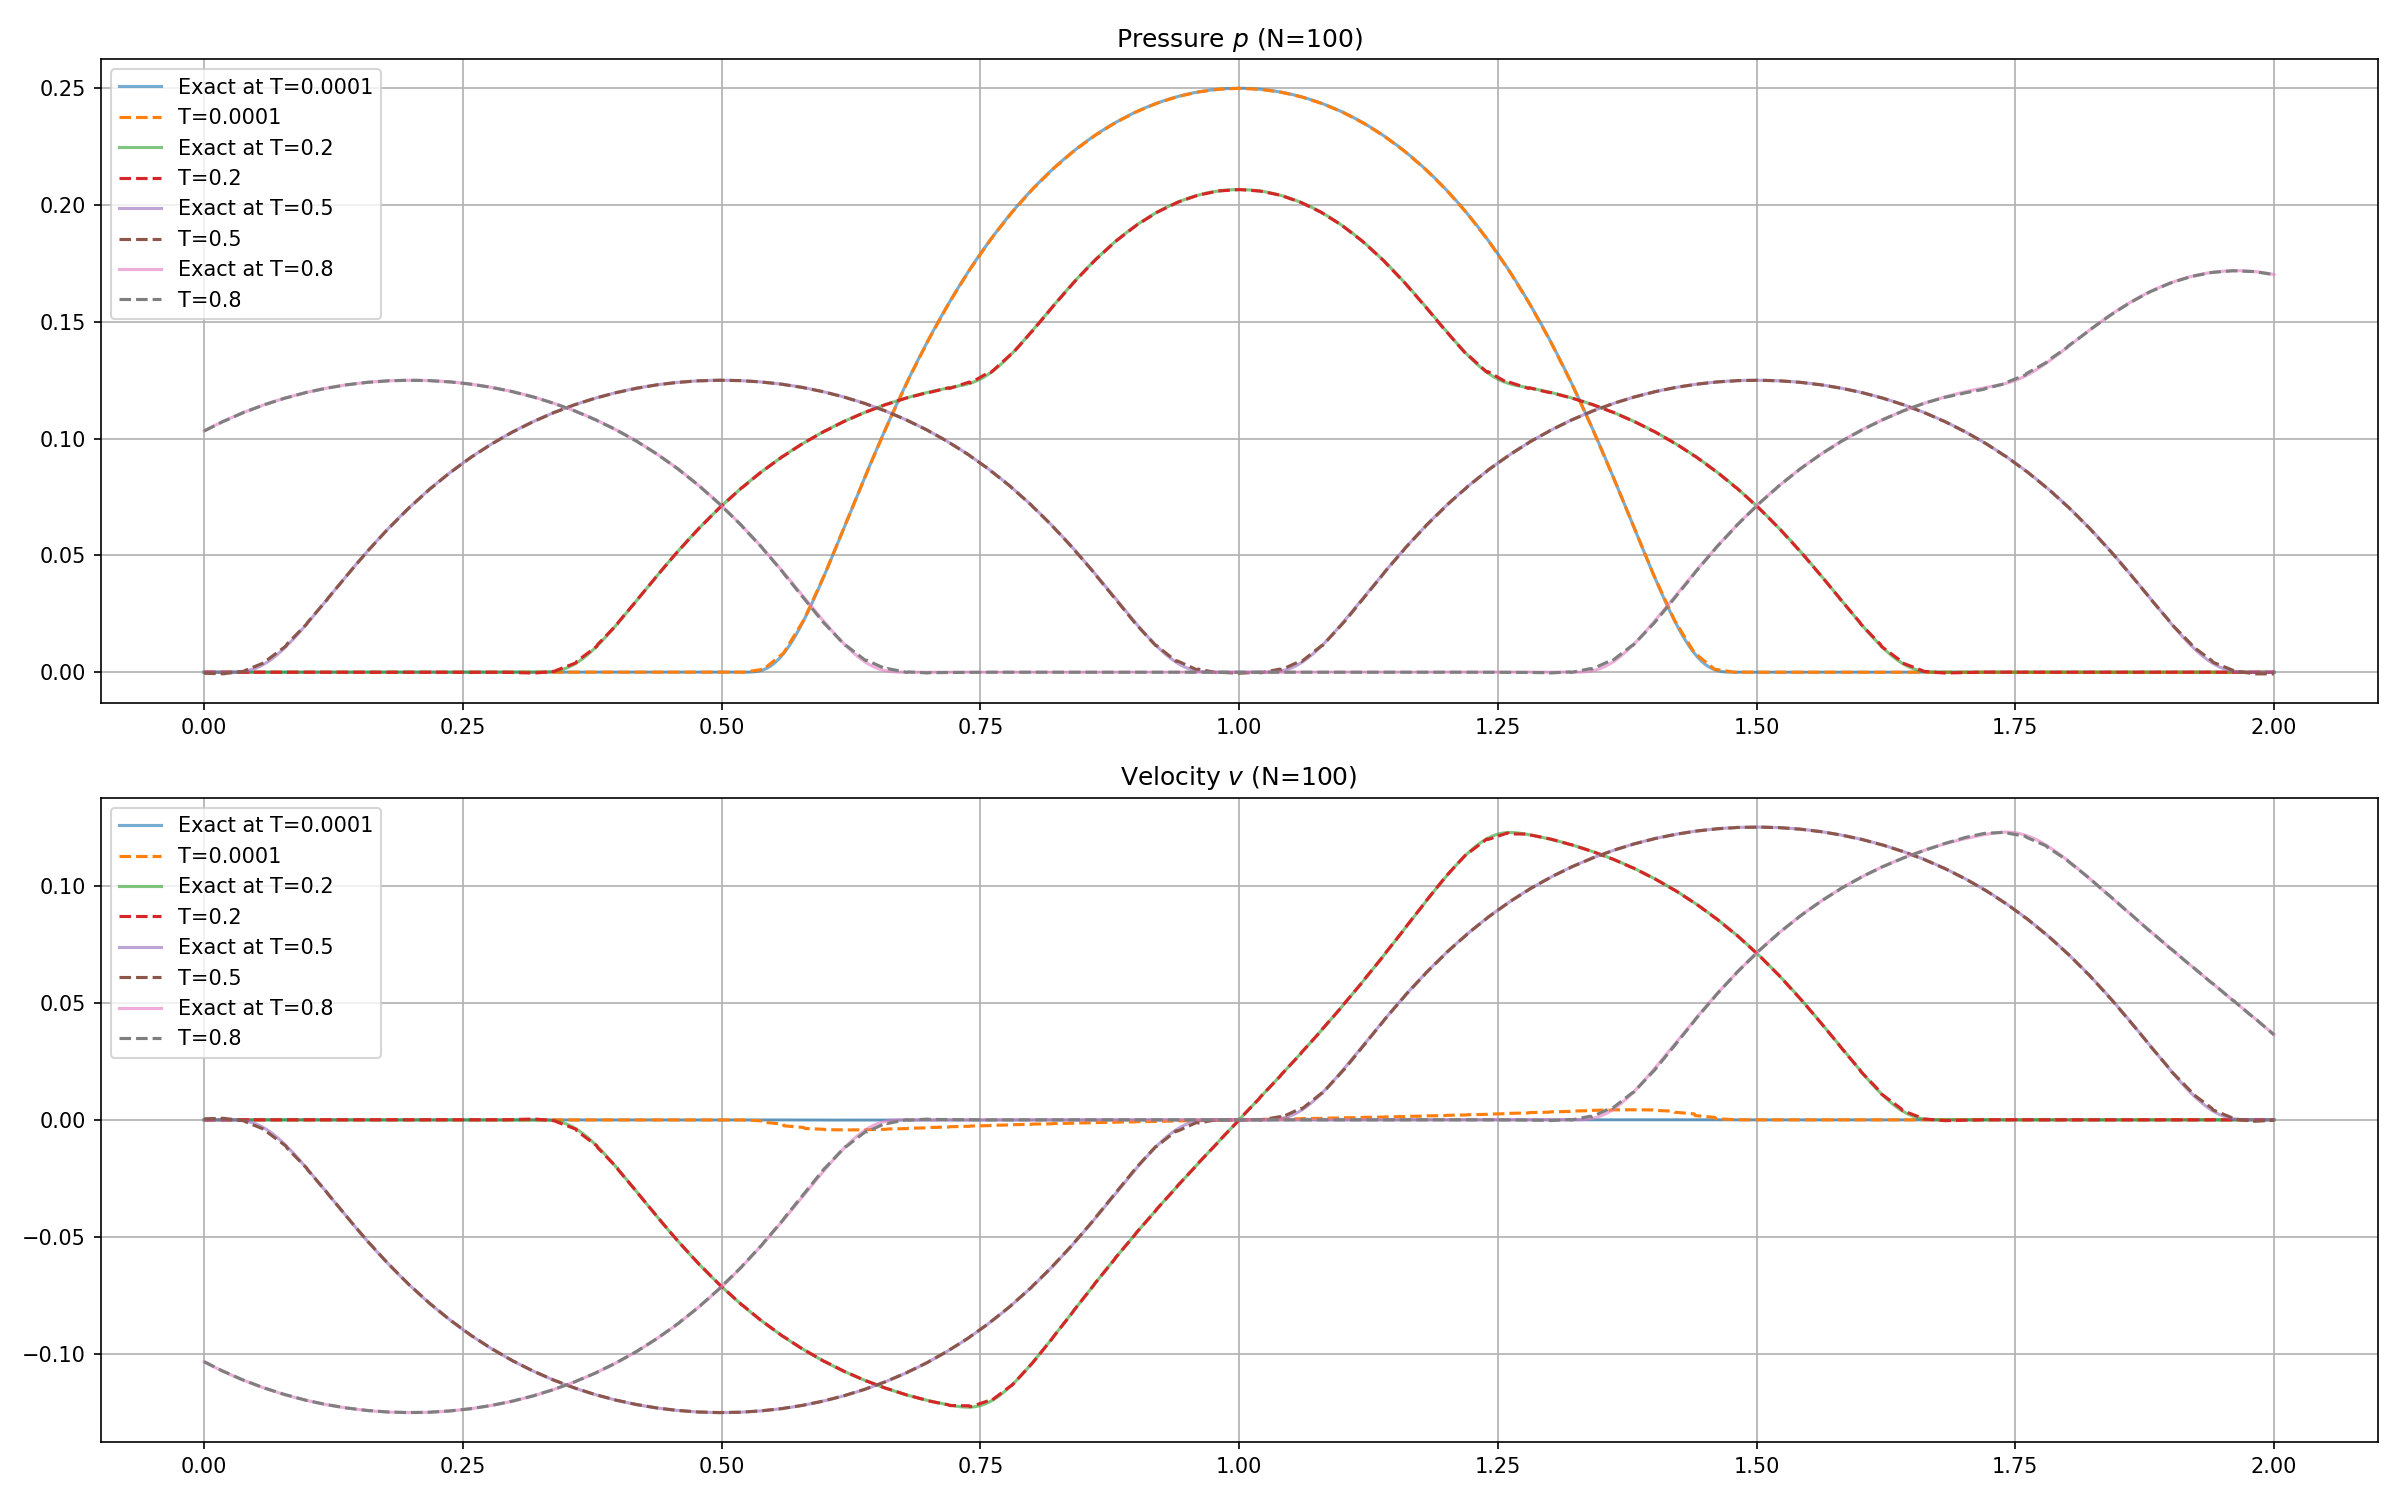
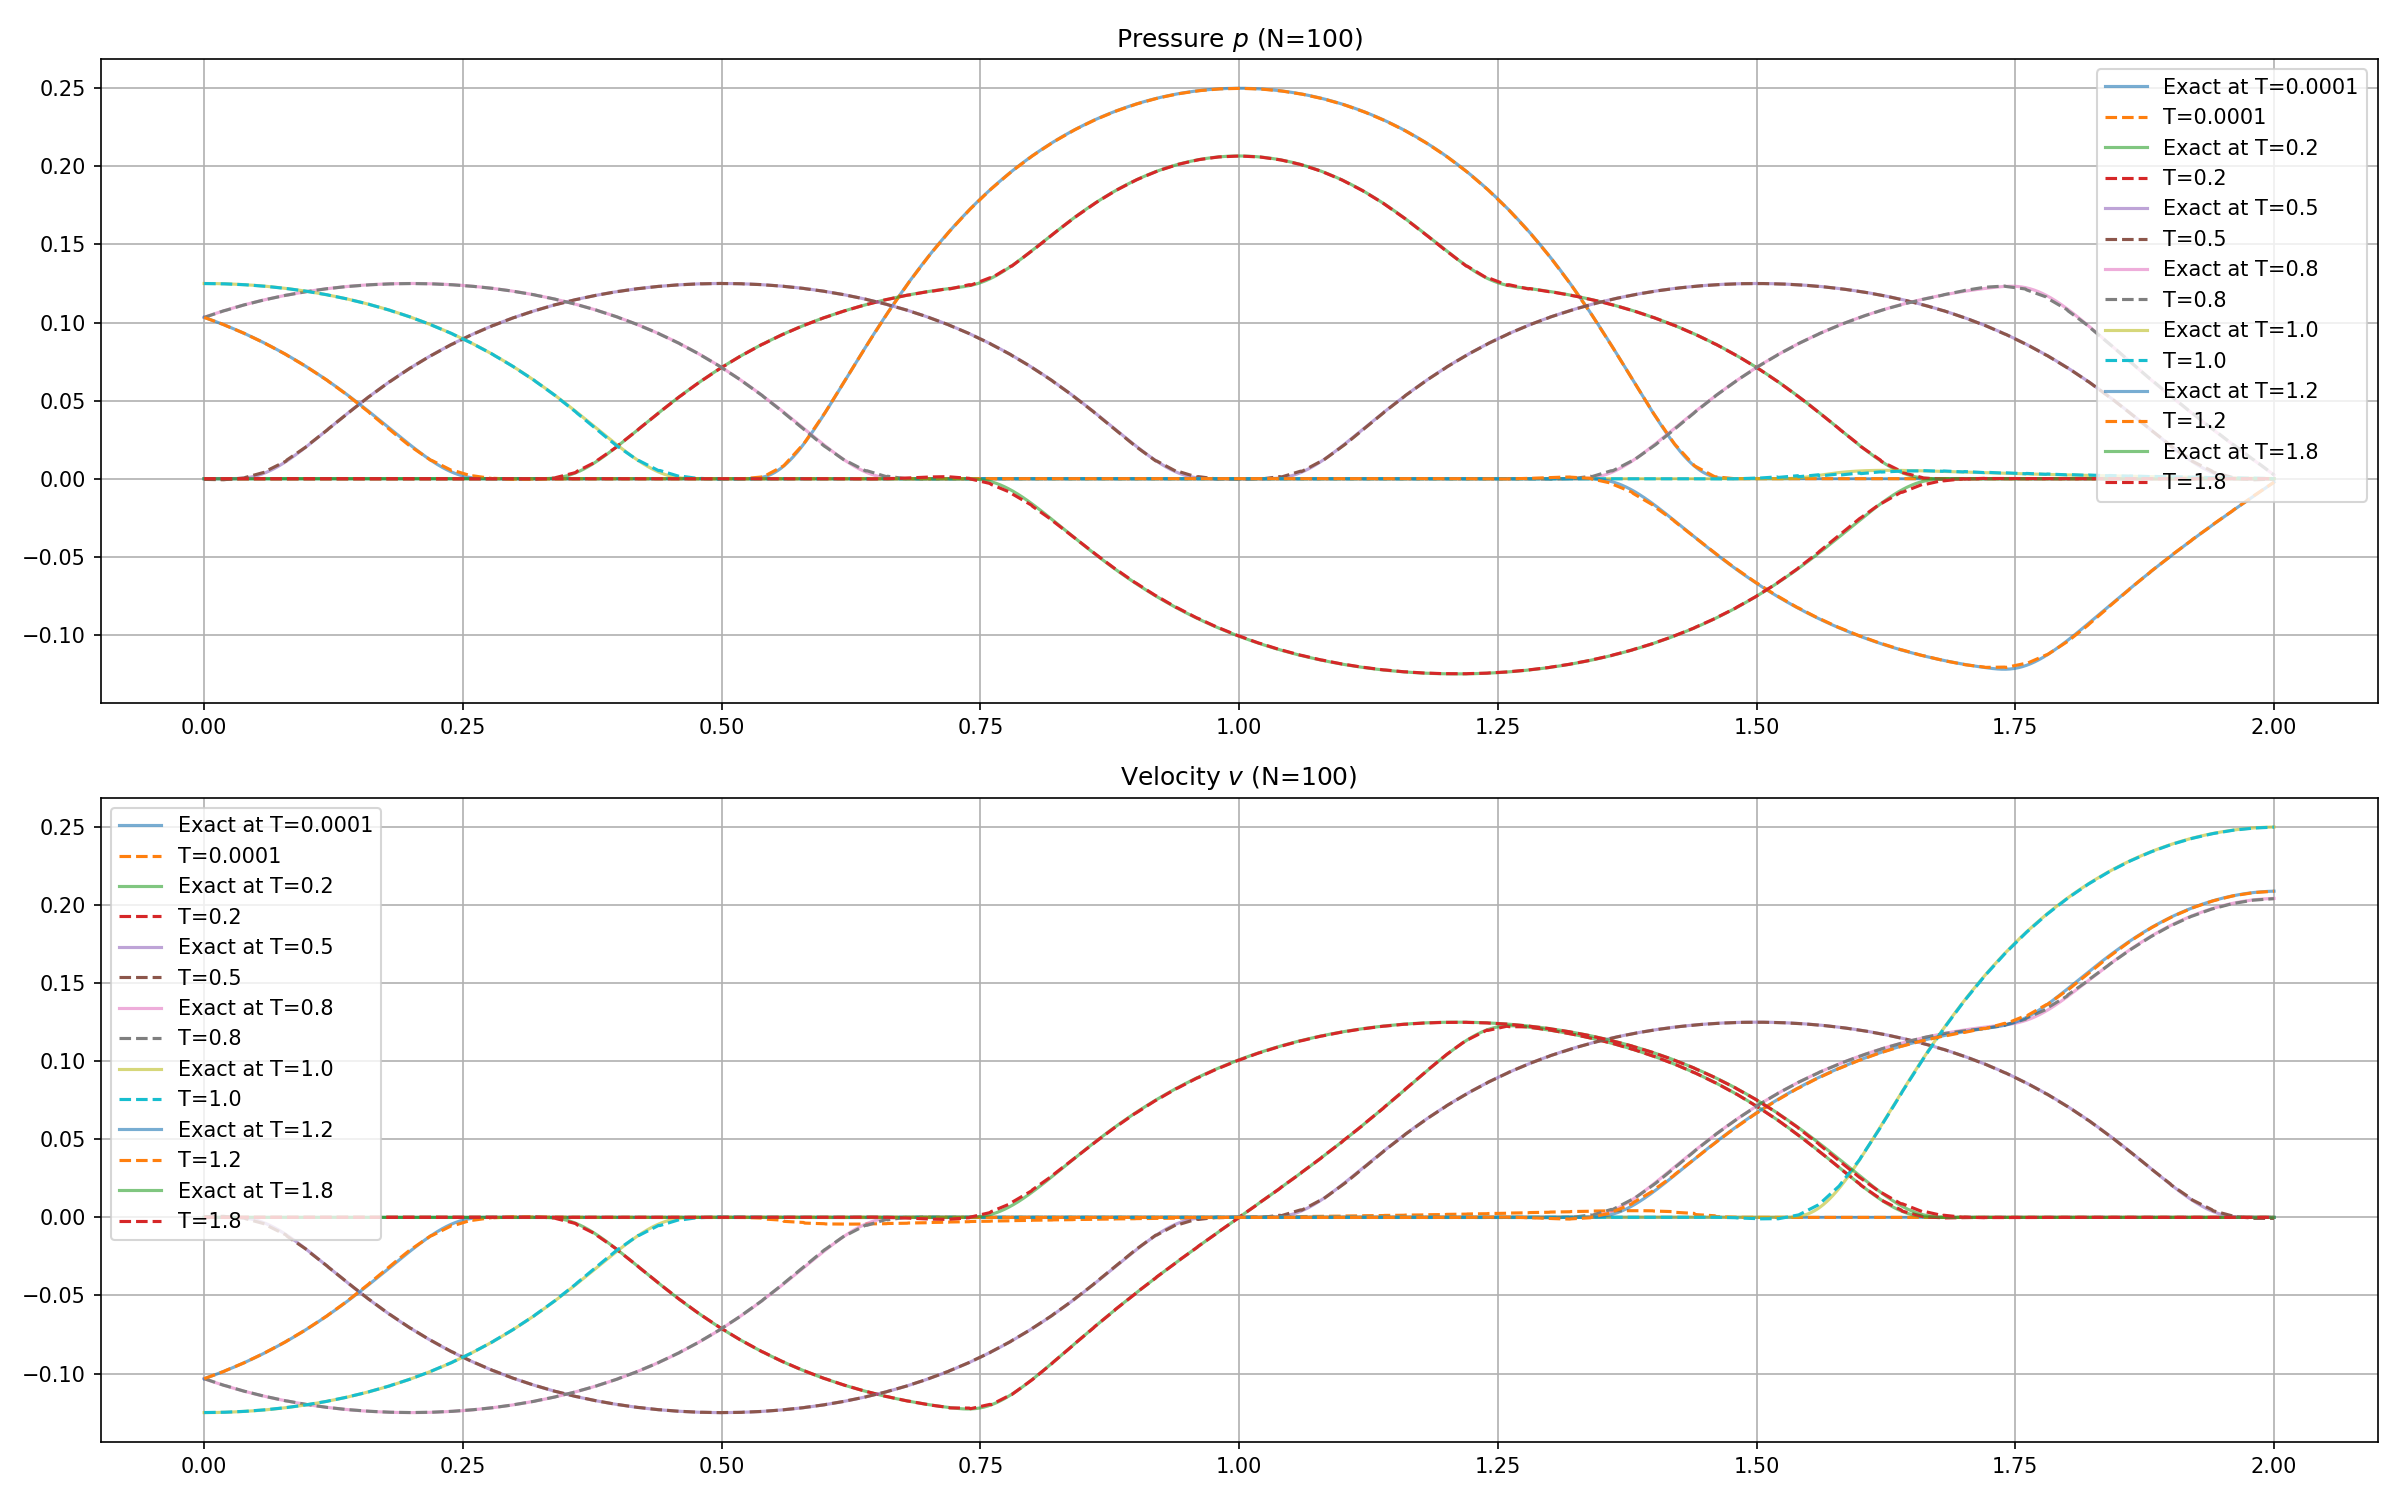
parameters values fixes

diff --git a/main.py b/main.py
@@ -75,7 +75,7 @@ def main():
     # ------------------------------------------------------------------------------
     # Simulation parameters
     # ------------------------------------------------------------------------------
-    Ts = [0.0001, 0.2, 0.5, 0.8]      # Times for solution plots
+    Ts = [0.0001, 0.2, 0.5, 0.8,1.0,1.2,1.8]      # Times for solution plots
     T_max = max(Ts)
     Ns = [100, 200, 400, 800]         # Mesh refinements
     T_convs = [0.5,0.8]
